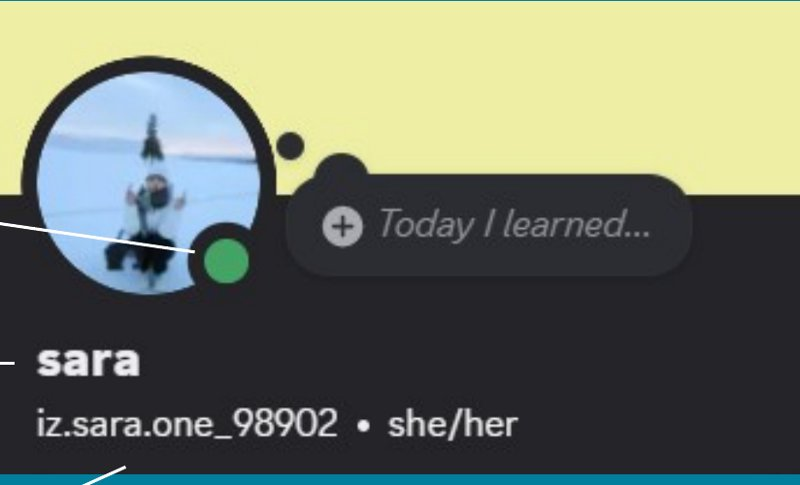
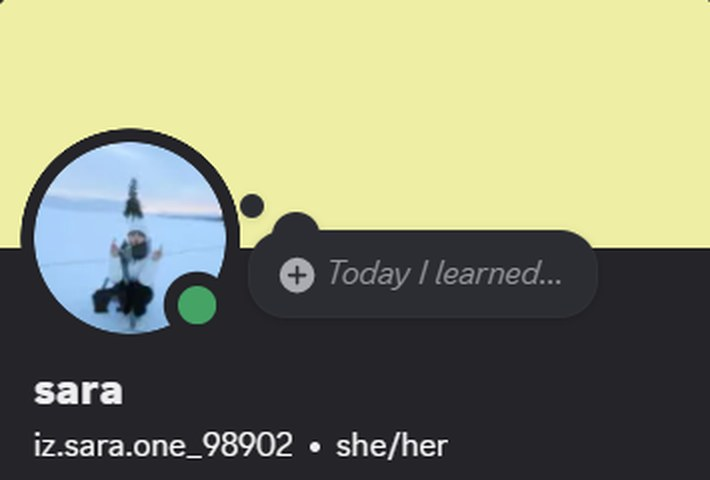
Discordの使い方の画像を元のスクリーンショットに差し替え
スライドを書き出した画像はフォントが置き換わって文字が崩れていたため、
pptxに入っている元のDiscord画面を使い、見出しや説明はHTMLで表示する。

Claude-Session: https://claude.ai/code/session_01GgPWNPFHmd3nRJ3FXgpgiV

Changed region(s): [[0.0, 0.0938, 1.0, 1.0], [0.0, 0.0, 1.0, 0.0312]]

diff --git a/index.html b/index.html
@@ -97,6 +97,15 @@ details.card summary{cursor:pointer;font-weight:700;color:var(--navy);list-style
 details.card summary::-webkit-details-marker{display:none}
 details.card summary .ic{display:inline-grid;place-items:center;width:32px;height:32px;border-radius:8px;background:var(--aqua);font-family:var(--font-display);flex:none}
 details.card[open] summary{margin-bottom:8px}
+.compare{display:grid;gap:14px;grid-template-columns:repeat(auto-fit,minmax(260px,1fr))}
+.compare>figure{display:grid;gap:8px;min-width:0;justify-items:start}
+.shots{display:flex;gap:8px;align-items:flex-start;min-width:0;flex-wrap:wrap;margin-block:8px}
+.shots img,img.shot{display:block;max-width:100%;height:auto;border-radius:8px;border:1px solid var(--line);background:#1e1f22}
+.compare .shots img:first-child{width:38%}.compare .shots img:last-child{width:calc(62% - 8px)}
+img.shot{margin-top:8px}
+.shots img.small{max-width:55%}
+.credit{font-size:.75rem;color:var(--muted)}
+.credit a{color:var(--sea)}
 /* rules */
 .rule{display:grid;grid-template-columns:28px 1fr;gap:10px;align-items:start;cursor:pointer}
 .rule input{width:22px;height:22px;margin-top:4px;accent-color:var(--sea)}
@@ -227,23 +236,26 @@ details.card[open] summary{margin-bottom:8px}
     <p>プロフィールには「サーバーで表示される名前」と「Discord ID」があります。Discord IDはInstagramのユーザーIDのようなもので、人によって重ならない英数字です。<b>下の画像で、Discord IDの部分をタップしてください。</b></p>
     <div class="hot" id="hot">
       <img src="img/profile.jpg" alt="Discordのプロフィール画面の例。アイコン、表示名 sara、その下に iz.sara.one_98902 と表示されている">
-      <button class="spot" data-k="status" aria-label="アイコン右下の緑の丸" style="left:24%;top:46%;width:9%;height:14%"></button>
-      <button class="spot" data-k="name" aria-label="太字の名前 sara" style="left:3%;top:68%;width:16%;height:12%"></button>
-      <button class="spot" data-k="id" aria-label="名前の下の英数字 iz.sara.one_98902" style="left:3%;top:82%;width:41%;height:12%"></button>
+      <button class="spot" data-k="status" aria-label="アイコン右下の緑の丸" style="left:23%;top:52%;width:9%;height:13%"></button>
+      <button class="spot" data-k="name" aria-label="太字の名前 sara" style="left:3%;top:75%;width:16%;height:10%"></button>
+      <button class="spot" data-k="id" aria-label="名前の下の英数字 iz.sara.one_98902" style="left:3%;top:87%;width:40%;height:10%"></button>
     </div>
     <p class="feedback" id="hotMsg" aria-live="polite"></p>
   </div>
-  <figure>
-    <img src="img/campus.jpg" alt="オリエンテーション前は数チャンネルしか見えず、後はたくさんのチャンネルが見えるようになる比較画像">
-    <figcaption>今見えているのは一部のチャンネルだけです。オリエンテーションが終わると、交流や相談のチャンネルがすべて見えるようになります。</figcaption>
-  </figure>
+  <div class="card" style="display:grid;gap:12px">
+    <h3>オリエンテーションが終わると、見えるチャンネルが増えます</h3>
+    <div class="compare">
+      <figure><span class="pill">今（オリエンテーション前）</span><div class="shots"><img src="img/campus-before-list.jpg" alt="ようこそ、一般、運営から、イベント告知、質問・お問い合わせなど数個のチャンネル"><img src="img/campus-before-post.jpg" alt="運営からのイベント告知の投稿"></div></figure>
+      <figure><span class="pill">オリエンテーション後</span><div class="shots"><img src="img/campus-after-list.jpg" alt="おしゃべり、運営より、海外大生の日常、通話募集、大学生グループ、雑談、作業ルームなど多くのチャンネル"><img src="img/campus-after-post.jpg" alt="シドニーのKotaさんによるサッカーのパブリックビューイングの投稿"></div></figure>
+    </div>
+    <p class="lead">交流や相談のチャンネルがすべて見えるようになり、仲間やメンターとより多く関われるようになります。</p>
+  </div>
   <div style="display:grid;gap:10px">
     <h3>3種類のチャンネル</h3>
-    <details class="card"><summary><span class="ic">#</span>テキストチャンネル</summary><p>メッセージでやりとりする場所です。お知らせやおしゃべり、自己紹介などに使います。@でメンションすると相手に通知が届きます。</p></details>
-    <details class="card"><summary><span class="ic">💬</span>フォーラムチャンネル</summary><p>テーマごとにスレッドを立てて質問・相談する場所です。たとえば「地域別相談室」には、アメリカ・アジア・ヨーロッパ・オーストラリアなど地域別のスレッドがあります。</p></details>
-    <details class="card"><summary><span class="ic">🔊</span>ボイスチャンネル</summary><p>入るだけでリアルタイムに音声通話や画面共有ができます。「雑談」や「作業ルーム」があります。</p></details>
+    <details class="card"><summary><span class="ic">#</span>テキストチャンネル</summary><p>メッセージでやりとりする場所です。お知らせやおしゃべり、自己紹介などに使います。@でメンションすると相手に通知が届きます。</p><img class="shot" src="img/ch-text.jpg" alt="Kotaさんが@部員などをメンションしてオフィスアワーを案内している投稿"></details>
+    <details class="card"><summary><span class="ic">💬</span>フォーラムチャンネル</summary><p>テーマごとにスレッドを立てて質問・相談する場所です。たとえば「地域別相談室」には、アメリカ・アジア・ヨーロッパ・オーストラリアなど地域別のスレッドがあります。</p><div class="shots"><img class="small" src="img/ch-forum-list.jpg" alt="地域別相談室のオーストラリアのスレッド"><img src="img/ch-forum-post.jpg" alt="シドニーの寮について質問している投稿"></div><p>「#奨学金」のように、テーマ別のテキストチャンネルで質問することもできます。</p><div class="shots"><img class="small" src="img/ch-scholar-name.jpg" alt="奨学金チャンネル"><img src="img/ch-scholar-post.jpg" alt="JASSOの奨学金について質問と回答のやりとり"></div></details>
+    <details class="card"><summary><span class="ic">🔊</span>ボイスチャンネル</summary><p>入るだけでリアルタイムに音声通話や画面共有ができます。「雑談」や「作業ルーム」があります。</p><div class="shots"><img class="small" src="img/ch-voice-list.jpg" alt="雑談と作業ルームのボイスチャンネル"><img src="img/ch-voice-call.jpg" alt="ボイスチャンネルで通話している画面の例"></div><p class="credit">通話画面の画像引用: <a href="https://automaton-media.com/articles/newsjp/20210401-156574/" target="_blank" rel="noopener">AUTOMATON</a></p></details>
   </div>
-  <figure><img src="img/channels.jpg" alt="テキスト・フォーラム・ボイスチャンネルの実際の画面例"><figcaption>実際の画面の例</figcaption></figure>
 </section>
 
 <!-- 5 -->
